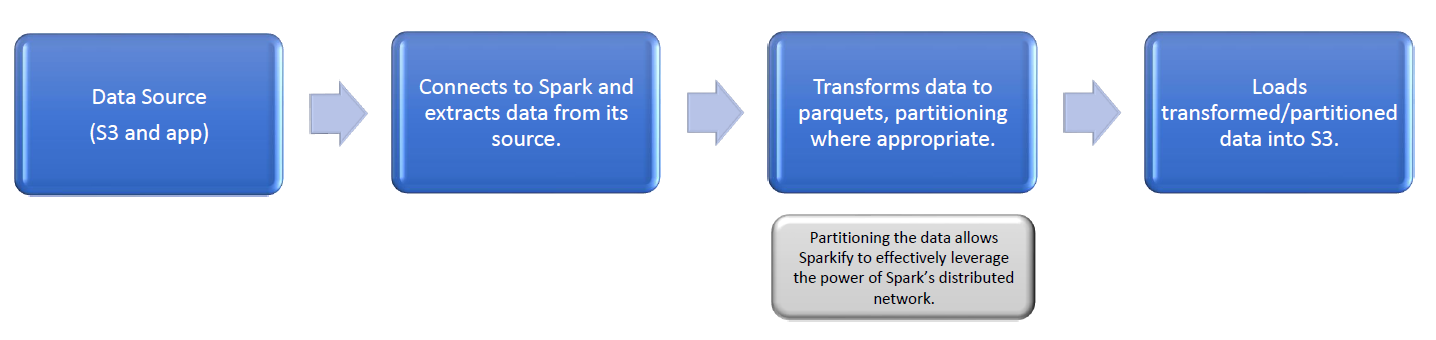
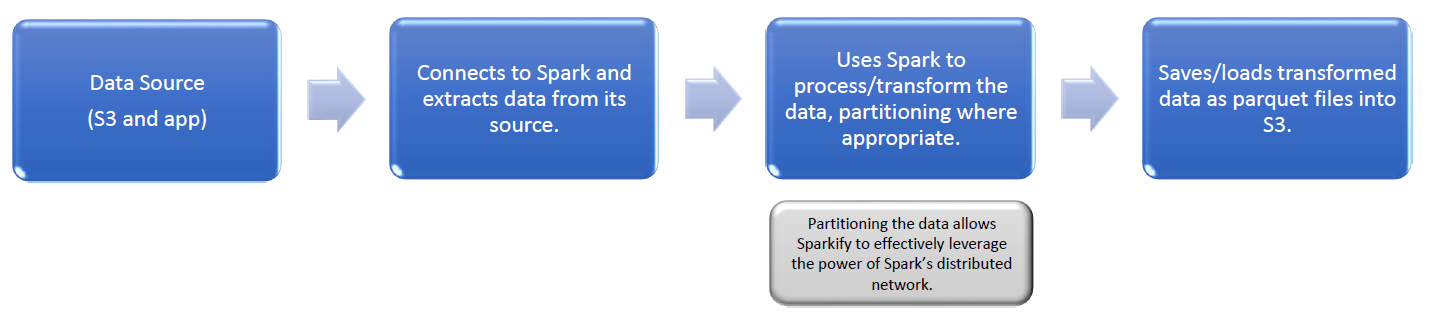
finished README. Still have aws access error

diff --git a/README.md b/README.md
@@ -1,22 +1,42 @@
 # Sparkify's Data Lake Deployment
-## Advancing a Music Streaming Startups Data Capabilities
+## Advancing a Music Streaming Startup's Machine Learning Capabilities
 
 <img src="https://github.com/Morgan-Sell/data-lake-music-streaming-app/blob/main/img/robot_keyboard.jpg" width="800" height="250">
 
-# Objective
-As more people were home and hosting virtual dance parties during the COVID-19 pandemic, Sparkify, a fake streaming music app, experienced exponential growth. With the ever-increasing quantity of data and desire to perform more sosphiticated analysis, Sparkify's management decided to store its data in a data lake.
+As more people were home and hosting virtual dance parties during the COVID-19 pandemic, Sparkify, a fake streaming music app, experienced exponential growth. With the ever-increasing quantity of data and desire to perform more sophisticated analysis, Sparkify's management decided to adopt a data lake as its database management system.
 
-The startup will leverage the capabilities of Spark and Hadoop to enable distributing computing via AWS. Spark creates a cluster manager that oversees the operations of all nodes. This project's cluster mode is **standalone**.
+The startup will leverage the capabilities of Spark and Hadoop to enable distributing computing via AWS. Spark creates a cluster manager that oversees the operations of all the worker nodes. This project's cluster mode is **standalone**.
 
-One of the main justifications for transitioning to a data lake is that Sparkify is heavily investing in its recommender system and other ML capabilities. Management wants to develop the industry's best recommender system. By using Spark, the recommender system can be trained at subsantially faster rate.
+One of the main justifications for transitioning to a data lake is that Sparkify is heavily investing in its recommender system and other ML capabilities. Management wants to develop the industry's best recommender system. By using Spark, the recommender system can be trained at a substantially faster rate.
 
-# Project Description
-I initially created a data warehouse for Sparkify to organize its music library and played songs depository. Sparkify's  team and I defined cleare rules which were enable analytics and monitoring of metrics. However, as Sparkify increased its music library and expanded its users, these rules became cumbersome by creating obstacles for data scientists and ML engineers to perform their work.
+# Project Summary
+I initially created a data warehouse for Sparkify to organize its music library and played songs depository. Sparkify's team and I defined clear rules that enabled analytics and monitoring of metrics. However, as Sparkify increased its music library and expanded its users, these rules became cumbersome by creating obstacles for data scientists and ML engineers to perform their work.
 
-The data is now "semi-schematized". The data is schematized as it is being processed by the DS/ML team. This approach is refered to as **"schema-on-read"**.
+The data is now "semi-schematized". The data is schematized as it is being processed by the DS/ML team. This approach is referred to as **"schema-on-read"**.
 
-The workflow below is a high-level sypnosis of how we migrating from a data warehouse to a data lake.
+The workflow below is a high-level synopsis of how we migrating from a data warehouse to a data lake.
 
 <p align="center">
-    <img src="https://github.com/Morgan-Sell/data-lake-music-streaming-app/blob/main/img/etl_flow_chart.png" width="600" height="150">
+    <img src="https://github.com/Morgan-Sell/data-lake-music-streaming-app/blob/main/img/etl_flow_chart.png" width="675" height="220">
 </p>
+
+# Data Lake Design
+The primary change to Sparkify's database management system is that data is distributed across various **worker nodes**, i.e., vCPUs provided by AWS. When designing, training, and deploying ML models, the time required is based on the last node completing its task. Consequently, it is important to allocate or partition the data in an equalized manner. The data allocation should be not skewed.
+
+Consequently, we partitioned the following tables by the corresponding attributes:
+
+> songs_table - year and artist_id
+> time_table - year and month
+> songsplay_table - year and month
+
+# Conclusion
+With Sparkify's data lake, the company is now able to focus on developing the most personalized music/media streaming experience available.Users' recommended playlists will incorporate new music as released by artists and Top 100 hits will no longer plug the playlist gaps. Sparkify's recommender system will introduce users to the music they never knew existed and from places of the world that they only know from books and movies.
+
+# Packages
+> Configparser
+> Numpy
+> PySpark
+
+
+
+
